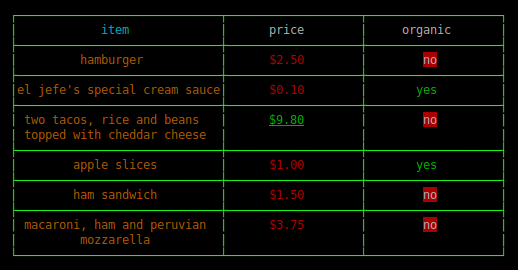
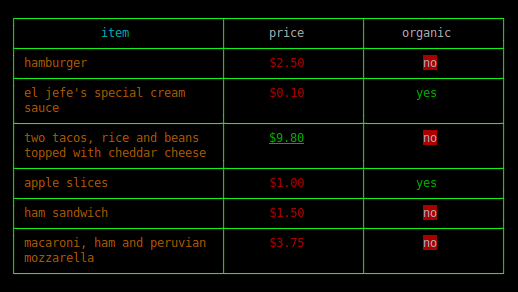
Added auto-documenting grunt tasks. Added alignment:left to example.

diff --git a/Gruntfile.js b/Gruntfile.js
@@ -22,8 +22,32 @@ module.exports = function(grunt) {
 		}
 	});
 
-	grunt.registerTask('doc','Documentation generation task',function(deferred){
-		var done = this.async();
+	grunt.registerTask('doc','Documentation generation task',function(){
+		var gruntDeferred = this.async(), 
+				Orgy = require('orgy'),
+				deferred1 = Orgy.deferred(),
+				deferred2 = Orgy.deferred(),
+				queue = Orgy.queue([deferred1,deferred2]).done(function(){
+					gruntDeferred();
+				}),
+				fs = require('fs');
+		
+		//Get README
+		var readme = fs.readFileSync("./README.md",{
+			encoding : "utf-8"
+		});	
+		
+		//Inject example usage into README
+		var example1 = fs.readFileSync('./examples/example-1.js',{
+			encoding : 'utf-8'
+		});
+		example1 = example1.replace('../','tec-table');
+		example1 = '```\n' + example1 + '\n```';	
+		readme = readme.replace(/<!--EXAMPLE-USAGE-->((?:.|[\r\n])*)<!--END-EXAMPLE-USAGE-->/m,
+				'<!--EXAMPLE-USAGE-->\n'+example1+'\n<!--END-EXAMPLE-USAGE-->');
+		deferred1.resolve();
+	
+		//Inject public API reference	
 		var exec = require('child_process').exec, child;
 		child = exec('jsdoc2md "src/*.js"', function (error, stdout, stderr) {
 			//console.log('stdout: ' + stdout);
@@ -36,19 +60,13 @@ module.exports = function(grunt) {
 			var str = stdout.replace(/new /g,'')
 											.replace(/_public\./g,'');
 
-			//Inject into markdown file	
-			//Get README
-			var fs = require('fs');
-			var readme = fs.readFileSync("./README.md",{
-				encoding : "utf-8"
-			});
 
 			readme = readme.replace(/<!--API-REF-->((?:.|[\r\n])*)<!--END-API-REF-->/m,
 				'<!--API-REF-->\n'+str+'\n<!--END-API-REF-->');
 
 			fs.writeFileSync("./README.md",readme);
 
-			done();
+			deferred2.resolve();
 		});
 	});
 

diff --git a/examples/example-1.js b/examples/example-1.js
@@ -6,14 +6,12 @@ var header = [
 		value : "item",
 		headerColor : "cyan",
 		color: "yellow",
-		//headerAlignment : "center",
-		//alignment : "left",
-		//paddingLeft : 2,
+		alignment : "left",
+		paddingLeft : 1,
 		width : 30
 	},
 	{
 		value : "price",
-		//alignment : "center",
 		color : "red", 
 		formatter : function(value){
 			var str = "$" + value.toFixed(2);
@@ -57,4 +55,3 @@ var t1 = Table(header,rows,{
 });
 var str1 = t1.render();
 console.log(str1);
-

diff --git a/src/main.js b/src/main.js
@@ -193,9 +193,9 @@ var cls = function(){
 			}
 			
 			//Left, Right Padding
-			line = Array(columnOptions.paddingLeft).join(' ') +
+			line = Array(columnOptions.paddingLeft + 1).join(' ') +
 						line +
-						Array(columnOptions.paddingRight).join(' ');
+						Array(columnOptions.paddingRight + 1).join(' ');
 			var lineLength = stripAnsi(line).length;
 
 			//Alignment 

diff --git a/README.md b/README.md
@@ -20,12 +20,18 @@ npm install tec-table
 
 ## Example Usage
 
+<!--EXAMPLE-USAGE-->
 ```
+var Table = require('tec-table');
+var chalk = require('chalk');
+
 var header = [
 	{
 		value : "item",
 		headerColor : "cyan",
 		color: "yellow",
+		alignment : "left",
+		paddingLeft : 1,
 		width : 30
 	},
 	{
@@ -63,6 +69,7 @@ var rows = [
 	["macaroni, ham and peruvian mozzarella",3.75,"no"]
 ];
 
+//Example 1
 var t1 = Table(header,rows,{
 	borderStyle : 1,
 	paddingBottom : 0,
@@ -70,11 +77,11 @@ var t1 = Table(header,rows,{
 	alignment : "center",
 	color : "white"
 });
-
 var str1 = t1.render();
-
 console.log(str1);
+
 ```
+<!--END-EXAMPLE-USAGE-->
 
 ## API Reference 
 <!--API-REF-->
@@ -94,20 +101,19 @@ console.log(str1);
 | header | <code>array</code> |  |
 | rows | <code>array</code> |  |
 | options | <code>object</code> | Table options |
-| options.marginTop | <code>number</code> |  |
-| options.marginLeft | <code>number</code> |  |
-| options.maxWidth | <code>number</code> |  |
-| options.callback | <code>function</code> |  |
-| options.headerAlignment | <code>string</code> |  |
-| options.alignment | <code>string</code> |  |
-| options.paddingRight | <code>number</code> |  |
-| options.paddingLeft | <code>number</code> |  |
-| options.paddingBottom | <code>number</code> |  |
-| options.paddingTop | <code>number</code> |  |
-| options.color | <code>string</code> |  |
-| options.headerColor | <code>string</code> |  |
-| options.gutter | <code>number</code> |  |
-| options.borderStyle | <code>number</code> |  |
+| options.marginTop | <code>number</code> | default: 0 |
+| options.marginLeft | <code>number</code> | default: 0 |
+| options.maxWidth | <code>number</code> | default: 20 |
+| options.callback | <code>function</code> | default: null |
+| options.headerAlignment | <code>string</code> | default: "center" |
+| options.alignment | <code>string</code> | default: "center" |
+| options.paddingRight | <code>number</code> | default: 0 |
+| options.paddingLeft | <code>number</code> | default: 0 |
+| options.paddingBottom | <code>number</code> | default: 0 |
+| options.paddingTop | <code>number</code> | default: 0 |
+| options.color | <code>string</code> | default: terminal default color |
+| options.headerColor | <code>string</code> | default: terminal default color |
+| options.borderStyles | <code>number</code> | default: 1 (0 = no border) |
 
 **Example**  
 ```
@@ -127,7 +133,7 @@ console.log(str); //outputs table
 
 <!--END-API-REF-->
 
-## Tests
+## Running tests
 
 ```
 grunt test
@@ -137,4 +143,4 @@ grunt test
 
 [GPLv3 License](http://www.gnu.org/licenses/gpl-3.0.en.html)
 
-Copyright 2015 Tecfu 
+Copyright 2015, Tecfu. 
